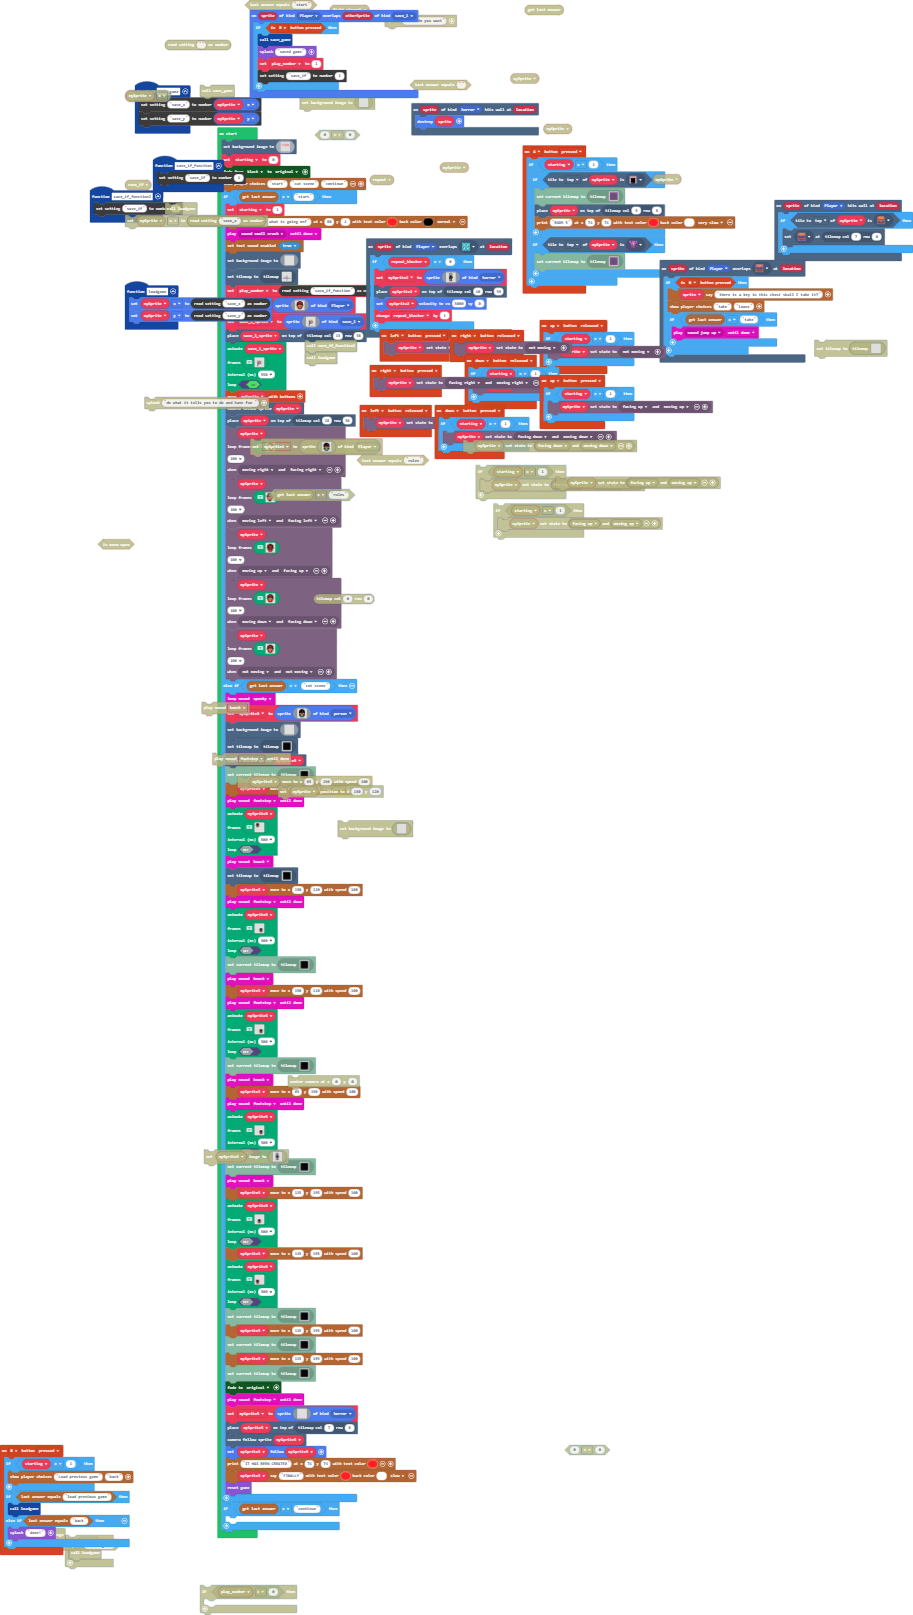
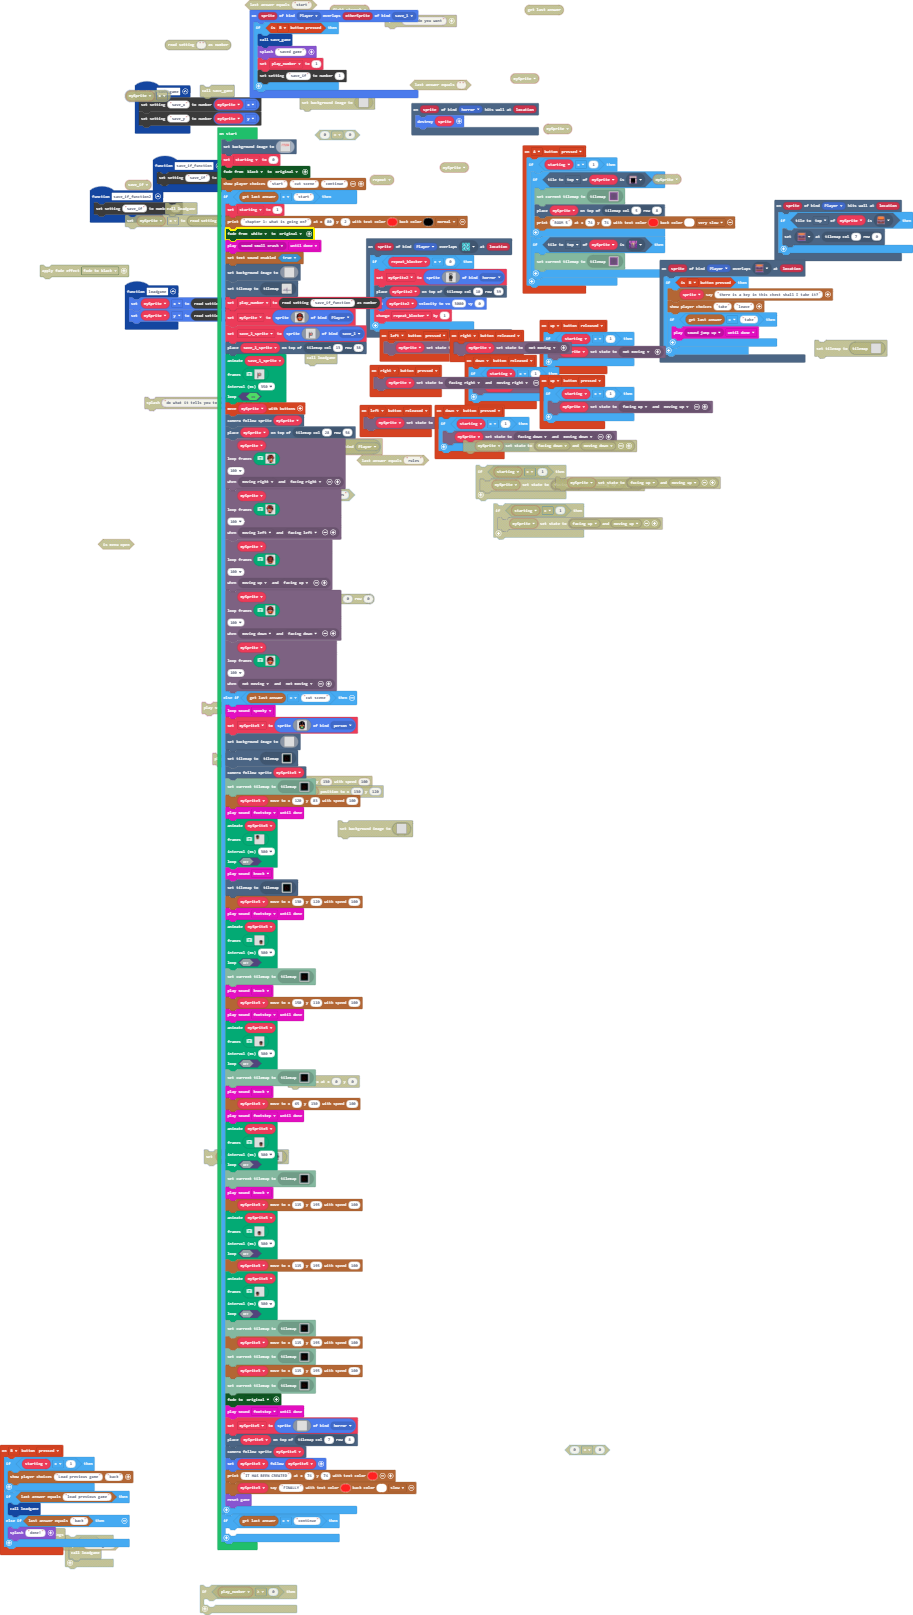
Update main.blocks, main.ts

Changed region(s): [[0.2147, 0.0929, 0.46, 0.9598], [0.0307, 0.1548, 0.1533, 0.1858]]

diff --git a/main.ts b/main.ts
@@ -157,24 +157,24 @@ scene.setBackgroundImage(img`
     ...................2222..2..2.....22222222222222222......................2222.............................222.2.....222.........................................
     ...................2222.....2......2222222222222222....................222222.............................222.2....2222.........................................
     ..................22222............2222222222222222....................22222..............................222..2.222222.........................................
-    .................22222..................222...........................222222.............2.2..............222..2.222222.........................................
-    .................222222................2222..........................2222222............222.2.............222..2.222222.........................................
-    ................2222222.................2222.........................2222222............222.2.............222..222222.2........2222.........22222222............
-    ..................222222................2222......................222222.222............222.2.............222.222222.2.......222..222222....222222222...........
-    ....................222.2...............2222.....................22222222222............22222.............2222212222.2.......22222222222....2222222222..........
-    ....................22222...............2222.....................222222222222...........2222.............2222222222.22.......22222222222...222...22222..........
-    ....................22222...............2222.....................2222....22222..........2222.............222222222..2........222...........222....22222.........
-    ....................22222................2222...................2222.....22222..........222...............2222222...2........2222..........222...2.2222.........
-    .....................2222................22222..................2222......22222.........222...............2222222..2.........22222.........222...2.2222.........
+    .................22222..................222...........................222222.............2.2..............222..2.22..22.........................................
+    .................222222................2222..........................2222222............222.2.............222..2....222.........................................
+    ................2222222.................2222.........................2222222............222.2.............222..22..22.2........2222.........22222222............
+    ..................222222................2222......................222222.222............222.2.............2.2.22..22.2.......222..222222....222222222...........
+    ....................222.2...............2222.....................22222222222............22222.............2.22212222.2.......22222222222....2222222222..........
+    ....................22222...............2222.....................222222222222...........2222.............22..222222.22.......22222222222...222...22222..........
+    ....................22222...............2222.....................2222....22222..........2222.............22...2222..2........222...........222....22222.........
+    ....................22222................2222...................2222.....22222..........222...............2...222...2........2222..........222...2.2222.........
+    .....................2222................22222..................2222......22222.........222...............22...22..2.........22222.........222...2.2222.........
     .....................2222..............22222...................22222......222222........222...............2222222..2.........222...........222...22.2222........
     ....................222222...........222.2222..................2222........2222222......2222..............222222.22..........222...........222....2222222.......
-    ....................222222...........22..2222..................2222....222..222222......2222..............22222222...........222...........22222222222222.......
-    ..........222.......2..222............2222222..................22....2222222222222......2222............222222222222.........2222222222....222.222.222222.......
-    ..........222..........222..............22222..................2222222...22222222.......2222..............22222222222........2222222222....22222...222222.......
-    ..........222.22.......222..............22222.............2222222.222......22..222......2222..............222222222222.......2222222222....2222....222222.......
-    ..........2222..222....222.............222222.............22..2.....2.......2....22.....2222.............22222.22222222......222...........22222222222222.......
-    ..........222222..22..2222.............22222...............222......2........22..222....2222............2.222...222222222....222...........22222..2222222.......
-    ..........22222222...22222.............2222.................22......2..........2.222...22222............2.222....2.2222222..2222....22222..2222222222222........
+    ....................222222...........22..2222..................2222....222..222222......2222..............222.2222...........222...........22222222222222.......
+    ..........222.......2..222............2222222..................22....2222222222222......2222............22222...2.22.........2222222222....222.222.222222.......
+    ..........222..........222..............22222..................2222222...22222222.......2222..............222222.2...........2222222222....22222...222222.......
+    ..........222.22.......222..............22222.............2222222.222......22..222......2222..............2222222..222.......2222222222....2222....222222.......
+    ..........2222..222....222.............222222.............22..2.....2.......2....22.....2222.............22222.2222..22......222...........22222222222222.......
+    ..........222222..22..2222.............22222...............222......2........22..222....2222............2.222...22222.2.2....222...........22222..2222222.......
+    ..........22222222...22222.............2222.................22......2..........2.222...22222............2.222....2.22...22..2222....22222..2222222222222........
     ...........2222222222222222............2222.................22......22.........22.22...22222.............2222....2..222222..2222..2222222..2222222222222........
     ...........2.222222222222.2..............2..................2......2..2.........2.22....222222222222222...222....22.22222...2222222.22222..222222222222.........
     ...........2...22222222...2..............22................2.......2..2..........2.2.....22222222222222...222.....22.2222....22222.222222..222222222222222......
@@ -277,6 +277,7 @@ story.showPlayerChoices("start", "cut scene", "continue")
 if (story.getLastAnswer() == "start") {
     starting = 1
     story.printText("chapter 1: what is going on?", 80, 2, 2, 15, story.TextSpeed.Normal)
+    color.startFade(color.White, color.originalPalette)
     music.play(music.melodyPlayable(music.smallCrash), music.PlaybackMode.UntilDone)
     story.setSoundEnabled(true)
     scene.setBackgroundImage(img`
